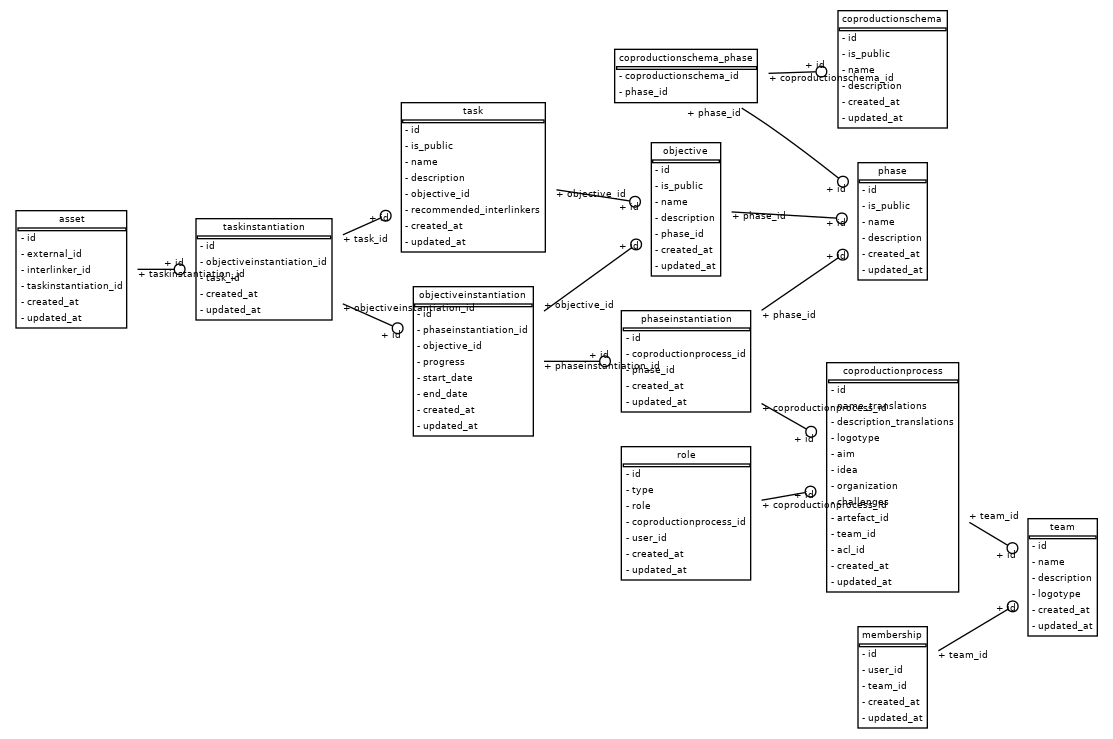
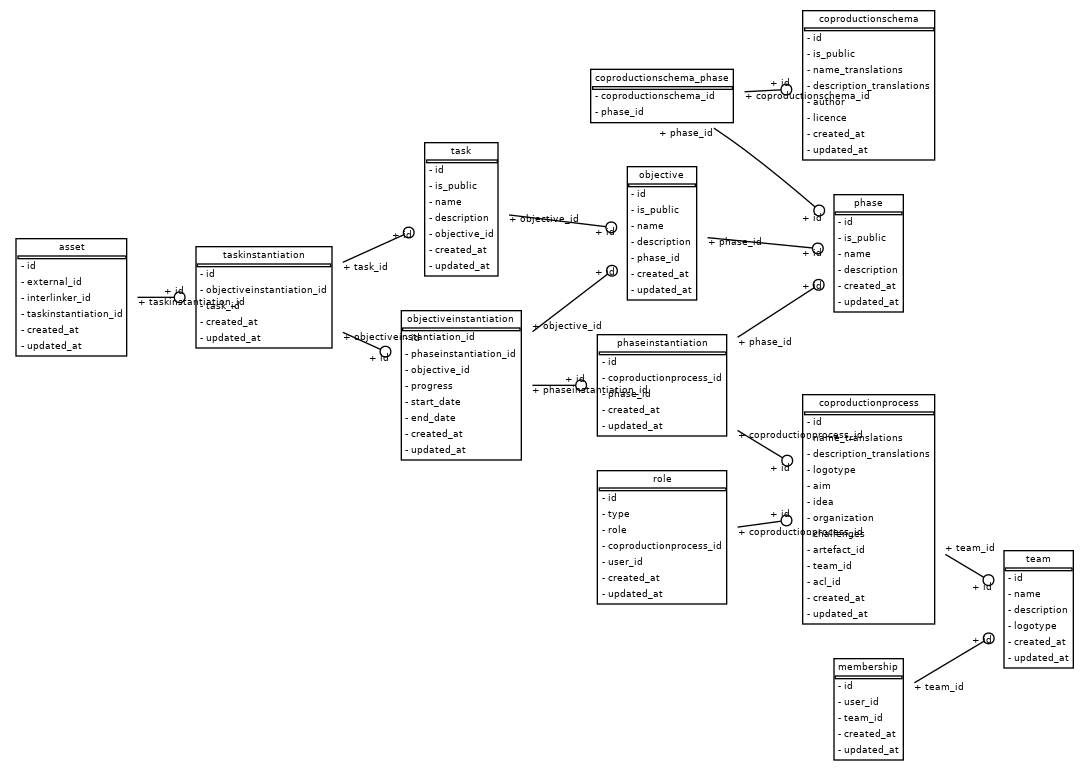
Translations approach

Changed region(s): [[0.0, 0.0, 0.9991, 0.9959], [0.4683, 0.5602, 0.4995, 0.5913]]

diff --git a/coproduction/app/initial_data.py b/coproduction/app/initial_data.py
@@ -120,30 +120,49 @@ data = {
     }
 }
 
+import os
+from pathlib import Path
 
 def main() -> None:
     logger.info("Creating initial data")
     db = SessionLocal()
 
-    
-    SCHEMA = crud.coproductionschema.create(
-        db=db,
-        coproductionschema=schemas.CoproductionSchemaCreate(
-            name=DEFAULT_SCHEMA_NAME,
-            description="desc",
-            is_public=True
-        )
-    )
-
-    for phaseName in data["phases"]:
-        phase = crud.phases.create(
+    for schema_metadata_path in Path("/app/interlinkers-data/schemas").glob("**/metadata.json"):
+        with open(str(schema_metadata_path)) as json_file:
+            print(f"{bcolors.OKBLUE}## PROCESSING {bcolors.ENDC}{schema_metadata_path}{bcolors.OKBLUE}")
+            parent = str(schema_metadata_path.parents[0])
+            phases = os.listdir(parent + "/phases")
+            schema_data = json.loads(json_file.read())
+        
+        schema_data["is_public"] = True
+        schema_data["name_translations"] = schema_data["name"]
+        schema_data["description_translations"] = schema_data["description"]
+        SCHEMA = crud.coproductionschema.create(
             db=db,
-            phase=schemas.PhaseCreate(
-                name=phaseName,
-                is_public=True,
-                description="demo description"
+            coproductionschema=schemas.CoproductionSchemaCreate(
+                **schema_data
             )
         )
+
+        for phase in phases:
+            with open(parent + "/phases/" + phase) as json_file:
+                phase_data = json.loads(json_file.read())
+            print(phase_data)
+            """phase = crud.phases.create(
+                db=db,
+                phase=schemas.PhaseCreate(
+                    name=phaseName,
+                    is_public=True,
+                    description="demo description"
+                )
+            )"""
+
+
+    """
+    
+
+    for phaseName in data["phases"]:
+        
         print(f"\n{bcolors.WARNING}PHASE: {phaseName}{bcolors.ENDC}")
         for objectiveName in data["phases"][phaseName]:
             if objectiveName:
@@ -178,14 +197,6 @@ def main() -> None:
                                         f"http://{settings.CATALOGUE_SERVICE}/api/v1/interlinkers/get_by_name/{interlinkerName}".replace(" ", "%20"))
                                     if response.status_code != 200:
                                         print(f"      {bcolors.FAIL}INTERLINKER: '{interlinkerName}' named interlinker is not accessible")
-                                    interlinker_data = response.json()
-                                    crud.task.add_recommended_interlinker(
-                                        db=db,
-                                        task=task,
-                                        interlinker_id=interlinker_data["id"]
-                                    )
-                                    name = interlinker_data["name"]
-                                    print(f"      {bcolors.ENDC}INTERLINKER: '{name}' as recommended interlinker")
 
         print(f"{bcolors.OKGREEN}'{phaseName}' phase successfully added to '{DEFAULT_SCHEMA_NAME}' schema{bcolors.ENDC}")
         crud.coproductionschema.add_phase(
@@ -215,7 +226,7 @@ def main() -> None:
         ),
     )
     print(f"\n{bcolors.OKGREEN}'{COPRODUCTION_PROCESS_NAME}' coproduction process created{bcolors.ENDC}")
-
+    """
     db.close()
     logger.info("Initial data created")
 

diff --git a/coproduction/app/coproductionschemas/models.py b/coproduction/app/coproductionschemas/models.py
@@ -1,18 +1,16 @@
-from typing import TypedDict
+import uuid
+from sqlalchemy import (
+    Boolean,
+    Column,
+    String
+)
+from sqlalchemy.dialects.postgresql import HSTORE, UUID
+from sqlalchemy.orm import relationship
 
 from app.general.db.base_class import Base as BaseModel
-from sqlalchemy import Boolean
-from sqlalchemy import Column
-from sqlalchemy import DateTime
-from sqlalchemy import ForeignKey
-from sqlalchemy import Integer
-from sqlalchemy import String
-from sqlalchemy import Table
-from sqlalchemy import Text
-from sqlalchemy.dialects.postgresql import UUID
-from sqlalchemy.orm import relationship
 from app.tables import coproductionschema_phase_association_table
-import uuid
+from app.translations import translation_hybrid
+
 
 class CoproductionSchema(BaseModel):
     """
@@ -20,9 +18,14 @@ class CoproductionSchema(BaseModel):
     """
     id = Column(UUID(as_uuid=True), primary_key=True, default=uuid.uuid4)
     is_public = Column(Boolean)
-    name = Column(String)
-    description = Column(String)
-    
+    name_translations = Column(HSTORE)
+    description_translations = Column(HSTORE)
+
+    name = translation_hybrid(name_translations)
+    description = translation_hybrid(description_translations)
+    author = Column(String, nullable=True)
+    licence = Column(String, nullable=True)
+
     phases = relationship(
         "Phase",
         secondary=coproductionschema_phase_association_table,

diff --git a/coproduction/app/translations.py b/coproduction/app/translations.py
@@ -1,0 +1,35 @@
+from contextvars import ContextVar
+
+from sqlalchemy_utils import TranslationHybrid
+from starlette.middleware.base import BaseHTTPMiddleware, RequestResponseEndpoint
+from starlette.requests import Request
+
+DEFAULT_LOCALE = "en"
+
+_lang: ContextVar[str] = ContextVar(DEFAULT_LOCALE, default=None)
+
+
+def get_language() -> str:
+    return _lang.get()
+
+
+translation_hybrid = TranslationHybrid(
+    current_locale=get_language,
+    default_locale=DEFAULT_LOCALE
+)
+
+
+class RequestContextMiddleware(BaseHTTPMiddleware):
+    async def dispatch(
+        self, request: Request, call_next: RequestResponseEndpoint
+    ):
+        
+        user_language = request.headers["accept-language"].split(",")[1].split(";")[0]
+        user_language = "en"
+        language = _lang.set(user_language)
+
+        response = await call_next(request)
+
+        _lang.reset(language)
+
+        return response

diff --git a/coproduction/app/coproductionschemas/crud.py b/coproduction/app/coproductionschemas/crud.py
@@ -12,9 +12,11 @@ class CRUDCoproductionSchema(CRUDBase[CoproductionSchema, CoproductionSchemaCrea
 
     def create(self, db: Session, *, coproductionschema: CoproductionSchemaCreate) -> CoproductionSchema:
         db_obj = CoproductionSchema(
-            name=coproductionschema.name,
-            description=coproductionschema.description,
+            name_translations=coproductionschema.name_translations,
+            description_translations=coproductionschema.description_translations,
             is_public=coproductionschema.is_public,
+            author=coproductionschema.author,
+            licence=coproductionschema.licence,
         )
         db.add(db_obj)
         db.commit()

diff --git a/coproduction/app/coproductionschemas/schemas.py b/coproduction/app/coproductionschemas/schemas.py
@@ -6,12 +6,13 @@ from app.general.utils.AllOptional import AllOptional
 from pydantic import BaseModel
 
 class CoproductionSchemaBase(BaseModel):
-    name: str
     is_public: bool
-    description: str
+    licence: str
+    author: str
 
 class CoproductionSchemaCreate(CoproductionSchemaBase):
-    pass
+    name_translations: dict
+    description_translations: dict
 
 
 class CoproductionSchemaPatch(CoproductionSchemaBase, metaclass=AllOptional):
@@ -23,6 +24,8 @@ class CoproductionSchema(CoproductionSchemaBase):
     created_at: datetime
     updated_at: Optional[datetime]
     
+    name: str
+    description: str
     class Config:
         orm_mode = True
 

diff --git a/coproduction/app/tasks/models.py b/coproduction/app/tasks/models.py
@@ -25,8 +25,6 @@ class Task(BaseModel):
 
     instantiations = relationship("TaskInstantiation", back_populates="task")
     
-    recommended_interlinkers = Column(ARRAY(UUID(as_uuid=True)))
-    
     def __repr__(self):
         return "<Task %r>" % self.name
 
@@ -51,10 +49,6 @@ class TaskInstantiation(BaseModel):
     @property
     def description(self) -> str:
         return self.task.description
-
-    @property
-    def recommended_interlinkers(self):
-        return self.task.recommended_interlinkers
 
     def __repr__(self):
         return "<TaskInstatiation %r>" % self.task.name

diff --git a/coproduction/app/tasks/crud.py b/coproduction/app/tasks/crud.py
@@ -23,13 +23,6 @@ class CRUDTask(CRUDBase[Task, TaskCreate, TaskPatch]):
         db.refresh(db_obj)
         return db_obj
 
-    def add_recommended_interlinker(self, db: Session, *, task: Task, interlinker_id: uuid.UUID) -> Task:            
-        interlinkers = task.recommended_interlinkers or []
-        task.recommended_interlinkers = interlinkers.append(interlinker_id)
-        db.commit()
-        db.refresh(task)
-        return task
-
     # CRUD Permissions
     def can_create(self, user):
         return True

diff --git a/coproduction/app/main.py b/coproduction/app/main.py
@@ -4,10 +4,12 @@ from starlette.middleware.cors import CORSMiddleware
 
 from app.api.api_v1 import api_router, team_management_router
 from app.config import settings
+from app.translations import RequestContextMiddleware
 
 app = FastAPI(
     title=settings.PROJECT_NAME, docs_url="/docs", openapi_url=f"{settings.API_V1_STR}/openapi.json", root_path=settings.BASE_PATH
 )
+app.add_middleware(RequestContextMiddleware)
 
 
 @app.get("/")

diff --git a/coproduction/app/tasks/schemas.py b/coproduction/app/tasks/schemas.py
@@ -58,4 +58,3 @@ class TaskInstantiationOut(TaskInstantiation):
     task: TaskOut
     name: str
     description: str
-    recommended_interlinkers: Optional[List[uuid.UUID]]
